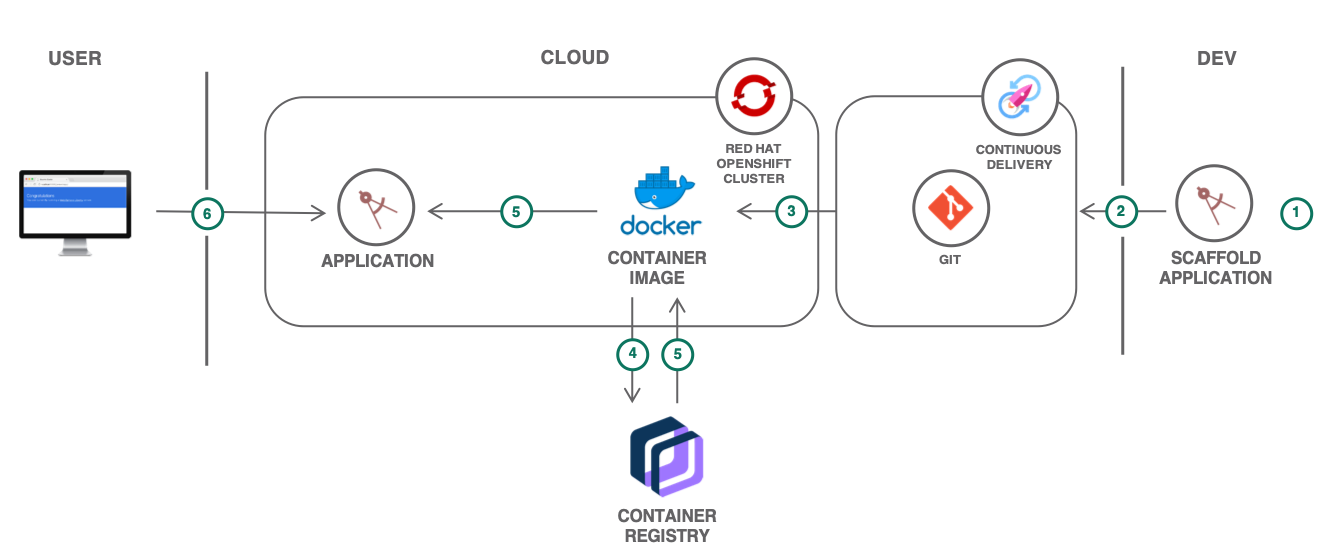
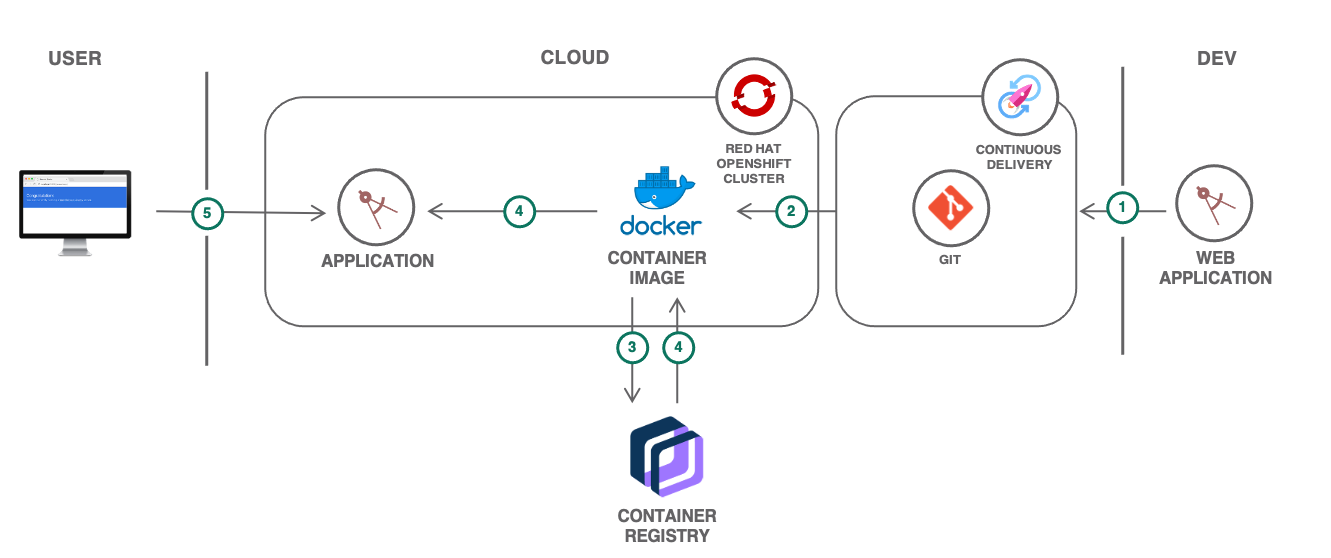
More updates to OpenShift web app tut

diff --git a/scalable-webapp-openshift.md b/scalable-webapp-openshift.md
@@ -2,8 +2,8 @@
 subcollection: solution-tutorials
 copyright:
   years: 2019, 2020
-lastupdated: "2020-12-17"
-lasttested: "2020-12-17"
+lastupdated: "2020-12-18"
+lasttested: "2020-12-18"
 
 content-type: tutorial
 services: openshift, containers, Registry
@@ -53,7 +53,7 @@ With {{site.data.keyword.openshiftlong_notm}}, you can create {{site.data.keywor
   ![Architecture](images/solution50-scalable-webapp-openshift/Architecture.png)
 </p>
 
-1. The developer pushes code to a private Git repository on {{site.data.keyword.Bluemix_notm}}.
+1. The developer pushes web application code to a private Git repository on {{site.data.keyword.Bluemix_notm}}.
 2. A Docker container image is build from the code.
 3. The image is pushed to a namespace in {{site.data.keyword.registrylong_notm}}.
 4. The application is deployed to an {{site.data.keyword.openshiftshort}} cluster by pulling the image.
@@ -178,18 +178,20 @@ In this section, you clone web application code, push it to a private Git reposi
 ### Clone a starter application
 {: #scalable-webapp-openshift-clone-web-app-code}
 
+In this section, you will clone a GitHub repo with a simple [NodeJS](https://nodejs.dev) starter application with a landing page and two endpoints to get started. You can always extend the starter application based on your requirement.
+
 1. On a terminal, run the below command to clone the [GitHub repository](https://github.ibm.com/portfolio-solutions/openshift-node-app/) to your machine:
    ```sh
    git clone https://github.ibm.com/portfolio-solutions/openshift-node-app/
    ```
    {: pre}
-2. Change to the application directory
+2. Change to the application directory,
    ```sh
    cd openshift-node-app
    ```
    {:pre}
 
-If you check the contents of the folder, it's a simple [NodeJS](https://nodejs.dev) starter application with a landing page and two endpoints. Along with the starter code, the directory provides an `openshift.template.yaml` file with placeholders. Later in the tutorial, you will run a shell script to update the placeholders and then apply the generated `openshift.yaml` file to build and deploy the application to the {{site.data.keyword.openshiftshort}} cluster.
+ Along with the starter code, the directory provides an `openshift.template.yaml` file with placeholders. Later in the tutorial, you will run a shell script to update the placeholders and then apply the generated `openshift.yaml` file to build and deploy the application to the {{site.data.keyword.openshiftshort}} cluster.
 
 ### Push the code to a Private IBM Cloud Git repo
 {: #scalable-webapp-openshift-private-git-repo}
@@ -293,13 +295,13 @@ In this tutorial, a remote private {{site.data.keyword.registryshort_notm}} is u
 
 In this step, you will update the BuildConfig section of `openshift.yaml` file to point to {{site.data.keyword.registryshort_notm}} namespace and push the generated builder image to {{site.data.keyword.registryshort_notm}}.
 
-1. Run the below script to update the `openshift.template.yaml` file and generate **openshift.yaml** file.
+1. Run the below bash script to update the placeholders in the `openshift.template.yaml` file and to generate **openshift.yaml** file.
    ```sh
    ./deploy.sh
    ```
    {:pre}
-2. Check the generated `openshift.yaml` file to see if all the placeholders are updated with the respective environment variables. The below are 3 important places to do a quick check.
-3. Locate the *ImageStream* object with the **name** attribute set to your project (`$MYPROJECT`) and check whether the placeholders `$MYREGISTRY`,`$MYNAMESPACE`, and `$MYPROJECT` under `dockerImageRepository` definition of `spec` are updated
+2. Optionally, check the generated `openshift.yaml` file to see if all the placeholders are updated with the respective environment variables. The below are 3 important places to do a quick check. _You can skip to the next section_.
+   1. Locate the *ImageStream* object with the **name** attribute set to your project (`$MYPROJECT`) and check whether the placeholders `$MYREGISTRY`,`$MYNAMESPACE`, and `$MYPROJECT` under `dockerImageRepository` definition of `spec` are updated
    ```yaml
    -
    apiVersion: image.openshift.io/v1
@@ -322,7 +324,8 @@ In this step, you will update the BuildConfig section of `openshift.yaml` file t
    ```
    {:codeblock}
    An image stream and its associated tags provide an abstraction for referencing container images from within {{site.data.keyword.openshiftshort}} Container Platform
-4. Check the `spec` under `BuildConfig` section for the output set to kind `DockerImage` and placeholders under `name` updated.
+
+   2. Check the `spec` under `BuildConfig` section for the output set to kind `DockerImage` and placeholders under `name` updated.
    ```yaml
    spec:
      nodeSelector: null
@@ -335,14 +338,15 @@ In this step, you will update the BuildConfig section of `openshift.yaml` file t
    ```
    {:codeblock}
    A build is the process of transforming input parameters into a resulting object. Most often, the process is used to transform input parameters or source code into a runnable image. A `BuildConfig` object is the definition of the entire build process.
-5. Search for `containers`, check the `image` and `name`
+
+   3. Search for `containers`, check the `image` and `name`
    ```yaml
    containers:
    - image: $MYREGISTRY/$MYNAMESPACE/$MYPROJECT:latest
      name: $MYPROJECT
    ```
    {:codeblock}
-6. If updated, **save** the YAML file.
+3. If updated, **save** the YAML file.
 
 ## Deploy the application to cluster
 {: #scalable-webapp-openshift-deploy-app-to-cluster}
@@ -430,7 +434,7 @@ In this step, you will automate the build and deploy process. So that whenever y
      oc get bc/$MYPROJECT -o yaml | grep -A 3 "\- gitlab"
      ```
      {:pre}
-   - Replace `<secret>` in the webhook GitLab URL with the secret value under *gitlab* in the above command output.
+   - **Replace** `<secret>` in the webhook GitLab URL with the secret value under *gitlab* in the above command output.
 3. Open your private git repo on a browser using the Git repo HTTPS link then click on **Settings** and click **Webhooks**.
 4. Paste the **URL** and click **Add webhook**. Test the URL by clicking **Test** and selecting Push events. You should see `Hook executed successfully: HTTP 200` message. This triggers a new build.
 5. Update the ImagePolicy of the image stream to query {{site.data.keyword.registryshort_notm}} at a scheduled interval to synchronize tag and image metadata. This will update the `tags` definition
